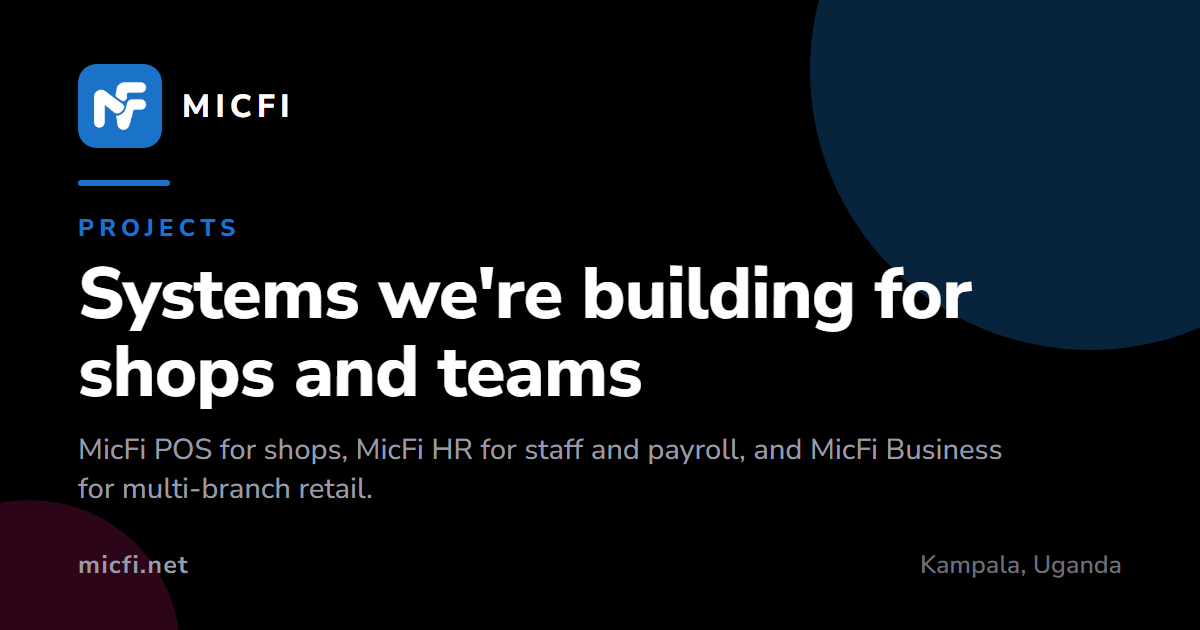
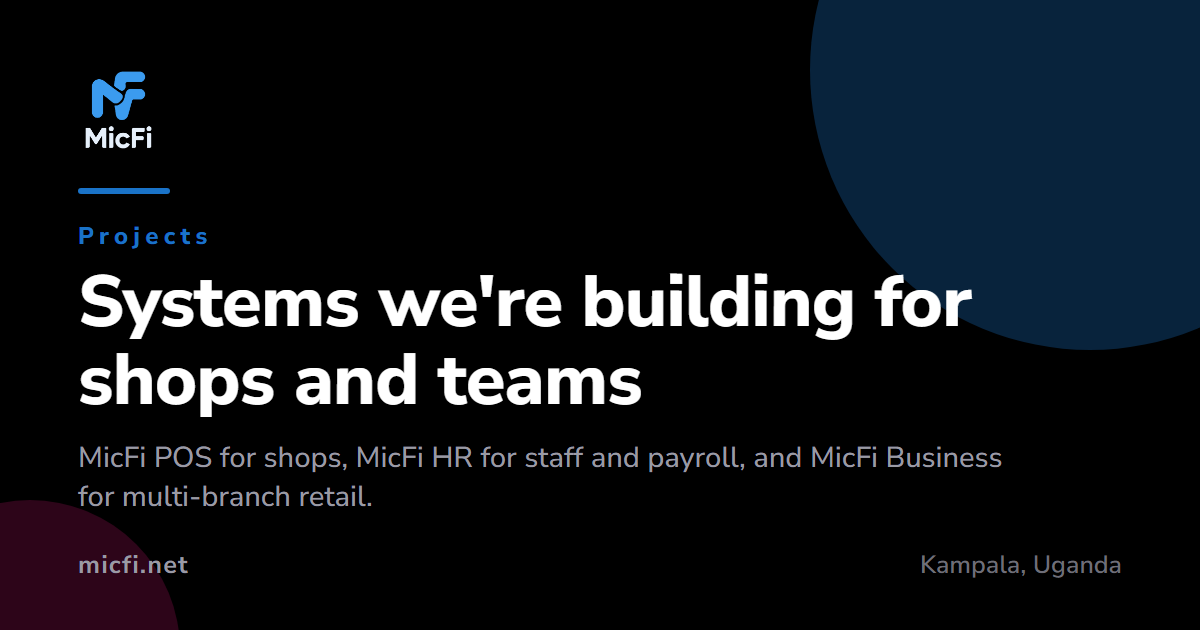
Fix OG card eyebrow to use natural case (MicFi) instead of uppercase

diff --git a/tools/generate-og.js b/tools/generate-og.js
@@ -128,7 +128,8 @@ function buildCards(M) {
 
 function cardHtml(card) {
   var font = fileUrl(path.join(ROOT, "assets", "fonts", "nunito-sans-latin.woff2"));
-  var mark = fileUrl(path.join(ROOT, "assets", "mark.png"));
+  /* Use the same stacked logo as the footer for a cleaner lockup */
+  var logo = fileUrl(path.join(ROOT, "assets", "logo-dark.png"));
 
   return [
     "<!DOCTYPE html>",
@@ -145,12 +146,11 @@ function cardHtml(card) {
     ".blob{position:absolute;border-radius:50%;pointer-events:none}",
     ".blob.a{width:560px;height:560px;top:-210px;right:-170px;background:rgba(26,115,200,.30)}",
     ".blob.b{width:300px;height:300px;bottom:-170px;left:-120px;background:rgba(224,25,123,.20)}",
-    ".brand{display:flex;align-items:center;gap:20px;position:relative}",
-    ".brand img{width:84px;height:84px;border-radius:18px;display:block}",
-    ".brand span{font-size:32px;font-weight:800;letter-spacing:.16em;text-transform:uppercase}",
+    ".brand{position:relative}",
+    ".brand img{height:92px;width:auto;display:block}",
     ".rule{width:92px;height:6px;border-radius:3px;background:" + COLORS.accent + ";margin-top:32px}",
     ".eyebrow{margin-top:26px;font-size:24px;font-weight:800;letter-spacing:.22em;",
-    "text-transform:uppercase;color:" + COLORS.accent + ";position:relative}",
+    "text-transform:none;color:" + COLORS.accent + ";position:relative}",
     "h1{margin-top:12px;font-size:72px;font-weight:800;line-height:1.08;max-width:1010px;letter-spacing:-.01em;position:relative}",
     ".sub{margin-top:18px;font-size:29px;font-weight:500;line-height:1.35;color:" + COLORS.muted + ";max-width:930px;position:relative}",
     ".foot{margin-top:auto;padding-top:28px;display:flex;justify-content:space-between;align-items:flex-end;",
@@ -159,7 +159,7 @@ function cardHtml(card) {
     ".foot .tag{color:#6E6E78;font-weight:600}",
     "</style></head><body>",
     '<div class="blob a" data-decor="1"></div><div class="blob b" data-decor="1"></div>',
-    '<div class="brand"><img src="' + mark + '" alt=""><span>MicFi</span></div>',
+    '<div class="brand"><img src="' + logo + '" alt="MicFi"></div>',
     '<div class="rule"></div>',
     '<div class="eyebrow">' + esc(card.eyebrow) + "</div>",
     '<h1 id="title">' + esc(card.title) + "</h1>",
